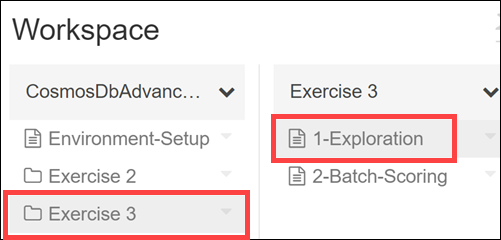
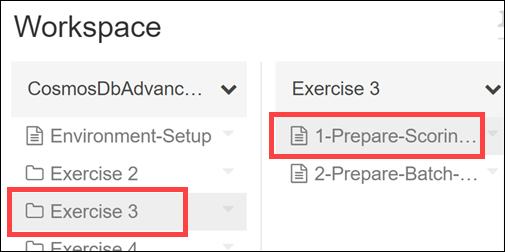
Updated notebook info in Exercise 3

diff --git a/Hands-on lab/HOL step-by step - Cosmos DB real-time advanced analytics.md b/Hands-on lab/HOL step-by step - Cosmos DB real-time advanced analytics.md
@@ -631,7 +631,7 @@ In this task, you will install the required `AzureML` and `Scikit-Learn` librari
 
    ![All three libraries are listed as installed.](media/databricks-libraries-installed.png 'Cluster Libraries')
 
-### Task 2: Data exploration and preparation using Apache Spark
+### Task 2: Prepare and deploy scoring web service
 
 In this task, you will use an Azure Databricks notebook to explore the transaction and account data. You will also do some data cleanup and create a feature engineering pipeline that applies these transformations each time data is passed to the model for scoring. Finally, you will train and deploy a machine learning model that detects fraudulent transactions.
 
@@ -639,13 +639,27 @@ In this task, you will use an Azure Databricks notebook to explore the transacti
 
    ![In the Databricks workspace, Workspace is selected in the left-hand menu, Users is selected, and the user account is selected and highlighted.](media/databricks-user-workspace.png)
 
-2. In your user workspace, select the **CosmosDbAdvancedAnalytics** folder, then select the **Exercise 3** folder, and select the notebook named **1-Exploration**.
+2. In your user workspace, select the **CosmosDbAdvancedAnalytics** folder, then select the **Exercise 3** folder, and select the notebook named **1-Prepare-Scoring-Web-Service**.
 
-   ![In the user's workspace, the 1-Exploration notebook is selected under the Exercise 3 folder.](media/databricks-user-workspace-ex3-notebook1.png 'Notebooks in the user workspace')
+   ![In the user's workspace, the 1-Prepare-Scoring-Web-Service notebook is selected under the Exercise 3 folder.](media/databricks-user-workspace-ex3-notebook1.png 'Notebooks in the user workspace')
 
-3. In the **1-Exploration** notebook, follow the instructions to complete the remaining steps of this task.
+3. In the **1-Prepare-Scoring-Web-Service** notebook, follow the instructions to complete the remaining steps of this task.
 
 > **NOTE**: There will be a link at the bottom of each notebook in this exercise to move on to the notebook for the next task, so you will not need to jump back and forth between this document and the Databricks notebooks for this exercise.
+
+### Task 3: Prepare batch scoring model
+
+In this task, you will use an Azure Databricks notebook to prepare a model used to detect suspicious activity that will be used for batch scoring.
+
+1. In your Databricks workspace, select **Workspace** from the left-hand menu, then select **Users** and your user account.
+
+   ![In the Databricks workspace, Workspace is selected in the left-hand menu, Users is selected, and the user account is selected and highlighted.](media/databricks-user-workspace.png)
+
+2. In your user workspace, select the **CosmosDbAdvancedAnalytics** folder, then select the **Exercise 3** folder, and select the notebook named **2-Prepare-Batch-Scoring-Model**.
+
+   ![In the user's workspace, the 2-Prepare-Batch-Scoring-Model notebook is selected under the Exercise 3 folder.](media/databricks-user-workspace-ex3-notebook2.png 'Notebooks in the user workspace')
+
+3. In the **2-Prepare-Batch-Scoring-Model** notebook, follow the instructions to complete the remaining steps of this task.
 
 ## After the hands-on lab
 
